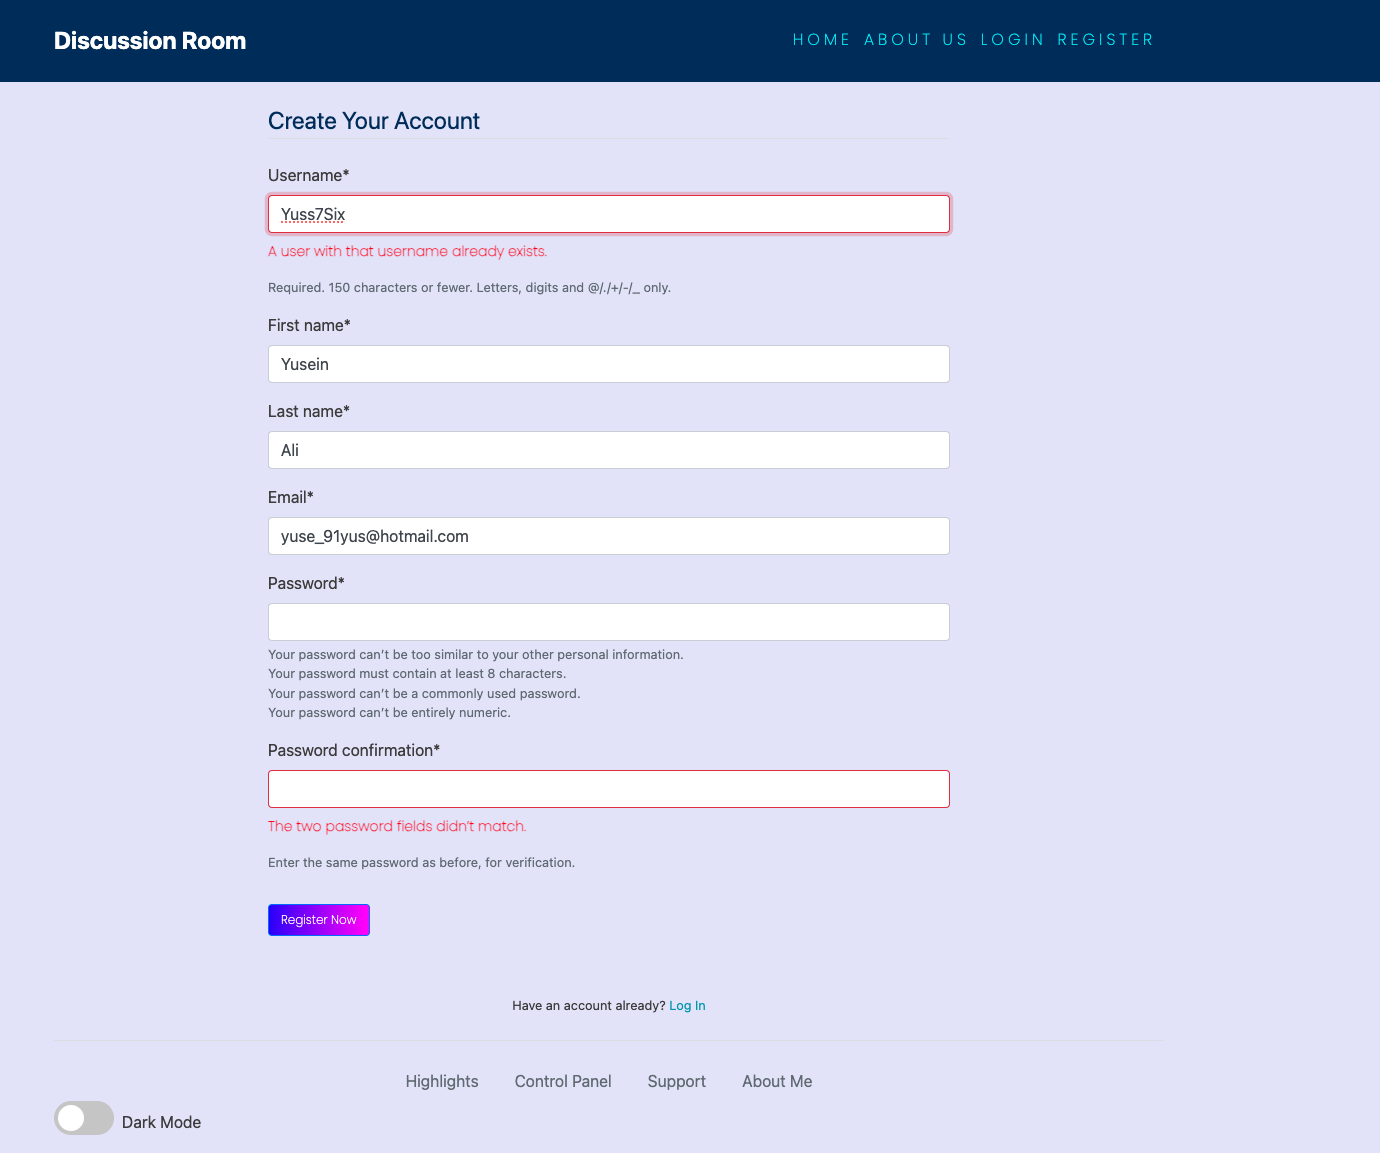
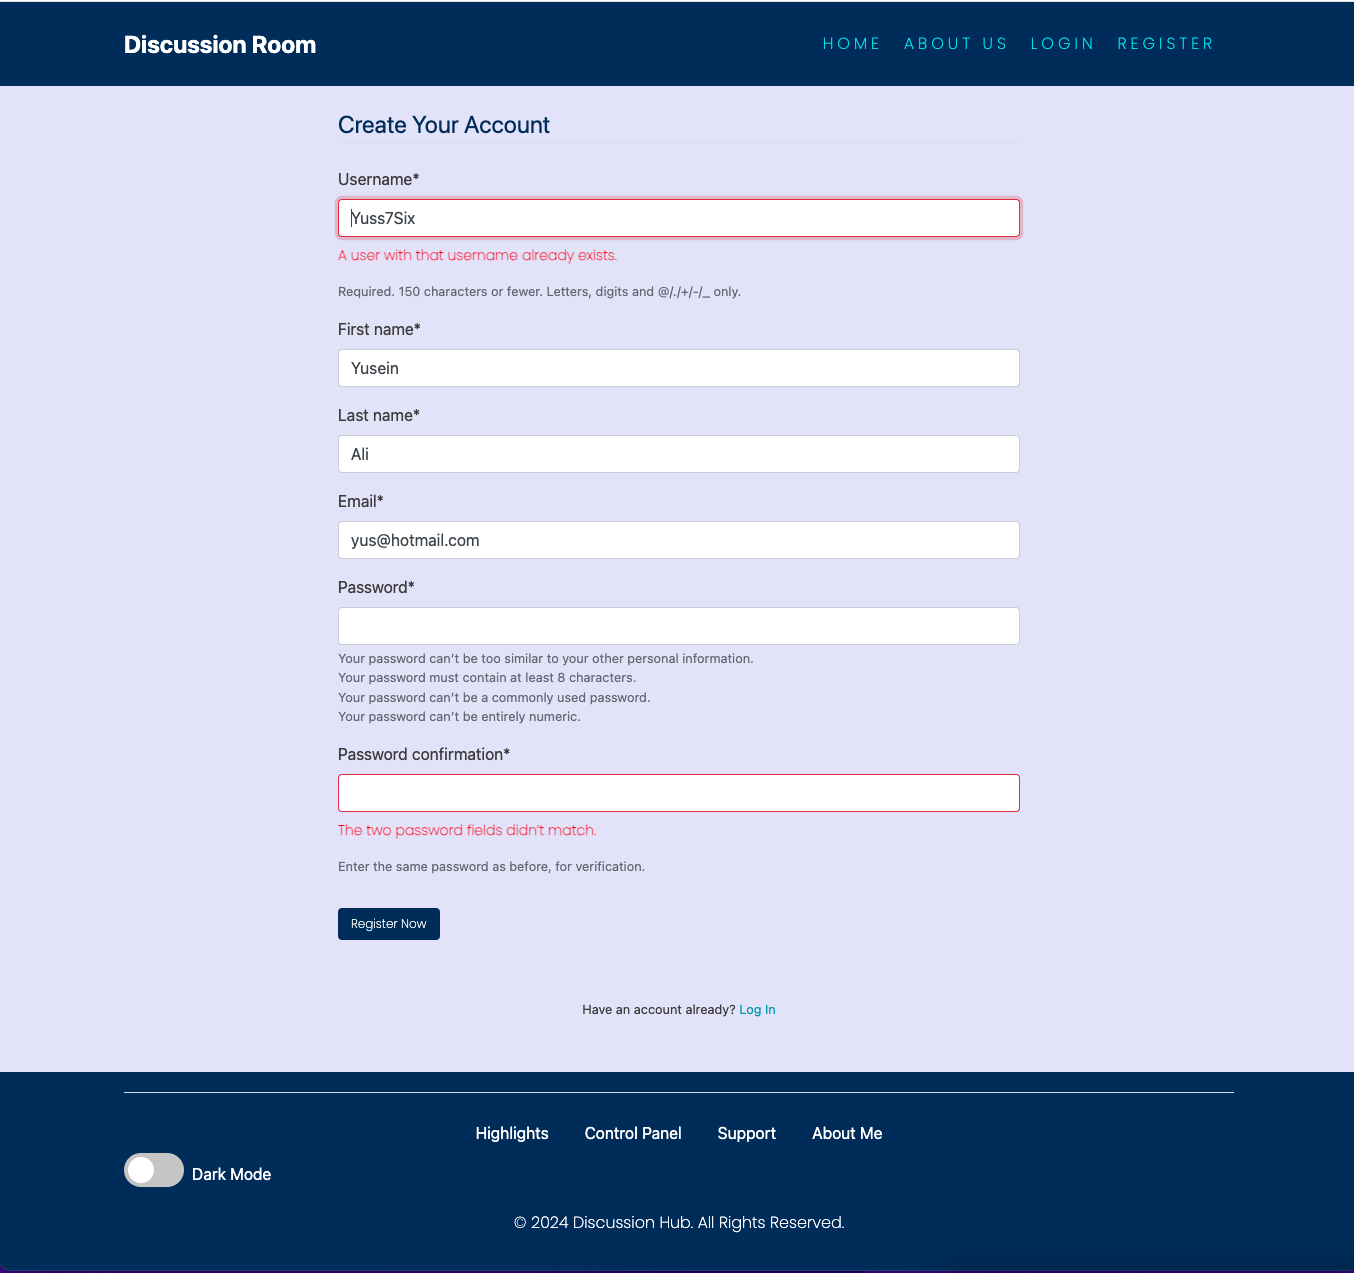
Update pictures of sections, mobile navbar,maine page and about us in the readme file

diff --git a/README.md b/README.md
@@ -579,7 +579,7 @@ The Login section of the application is designed to provide a user-friendly inte
 Username: A field for the user to enter their username, styled with a soft white background for easy readability.
 Password: A field for entering the password, also featuring a soft white design to maintain consistency.
 
-* Login Button: A prominent button labeled "Log In," styled in a blue-purple color, allowing users to submit their credentials and access their accounts seamlessly.
+* A prominent button labeled "Log In," styled in a blue that matches the navbar and footer, allowing users to submit their credentials and access their accounts seamlessly.
 
 * Sign-Up Prompt: Below the login form, there's a friendly reminder for users who do not have an account, prompting them to "Sign Up" if they need to create a new one.
 
@@ -611,7 +611,7 @@ The Registration page is designed to facilitate the account creation process for
 
 * User Guidance: Users are encouraged to enter accurate information in all fields to facilitate effective communication from our team regarding updates or any issues that may arise.
 
-* Register Now Button: At the end of the form, there is a prominent "Register Now" button styled in an attractive blue and purple color, allowing users to submit their registration details easily.
+* At the end of the form, there is a prominent "Register Now" button styled in an attractive blue that matches the navbar and footer, allowing users to submit their registration details easily.
 
 * Login Prompt: Additionally, at the bottom of the registration page, a message is displayed stating, "Already have an account? Log in," providing users with an easy way to navigate to the login page if they have previously registered.
 
@@ -630,10 +630,10 @@ In the Create a New Post section, users can easily compose and publish new posts
 For those who wish to cancel the action, there is an option to go back, allowing users to navigate away without creating a new post.
 
 *Create A New Post Desktop*<br>
-![Create A New Post Desktop](static/images/screenshots/pagecreateapostdesktop.png)
+![Create A New Post Desktop](static/images/screenshots/pagecreatepostdesktop.png)
 
 *Create A New Post Mobile*<br>
-![Create A New Post Mobile](static/images/screenshots/pagecreateapostmobile.png)
+![Create A New Post Mobile](static/images/screenshots/pagecreatepostmobile.png)
 
 ### Account
 
